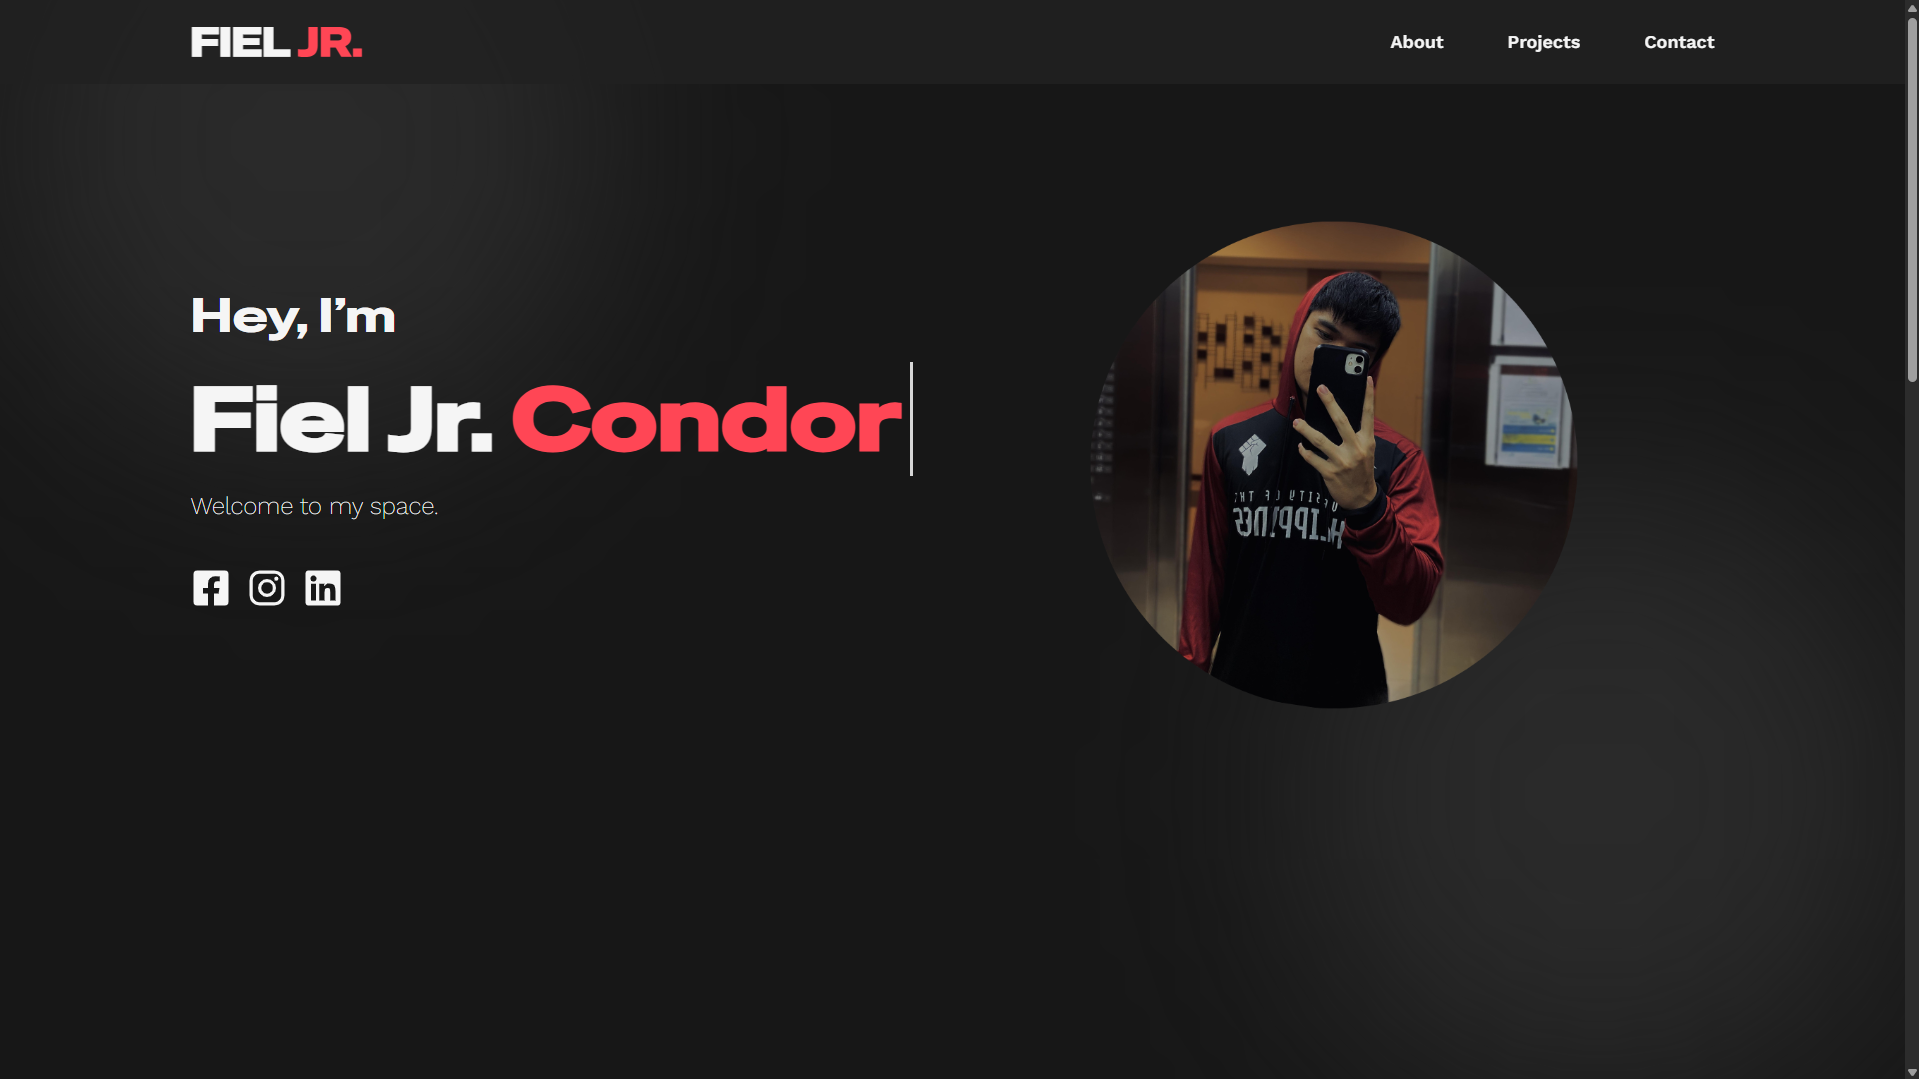
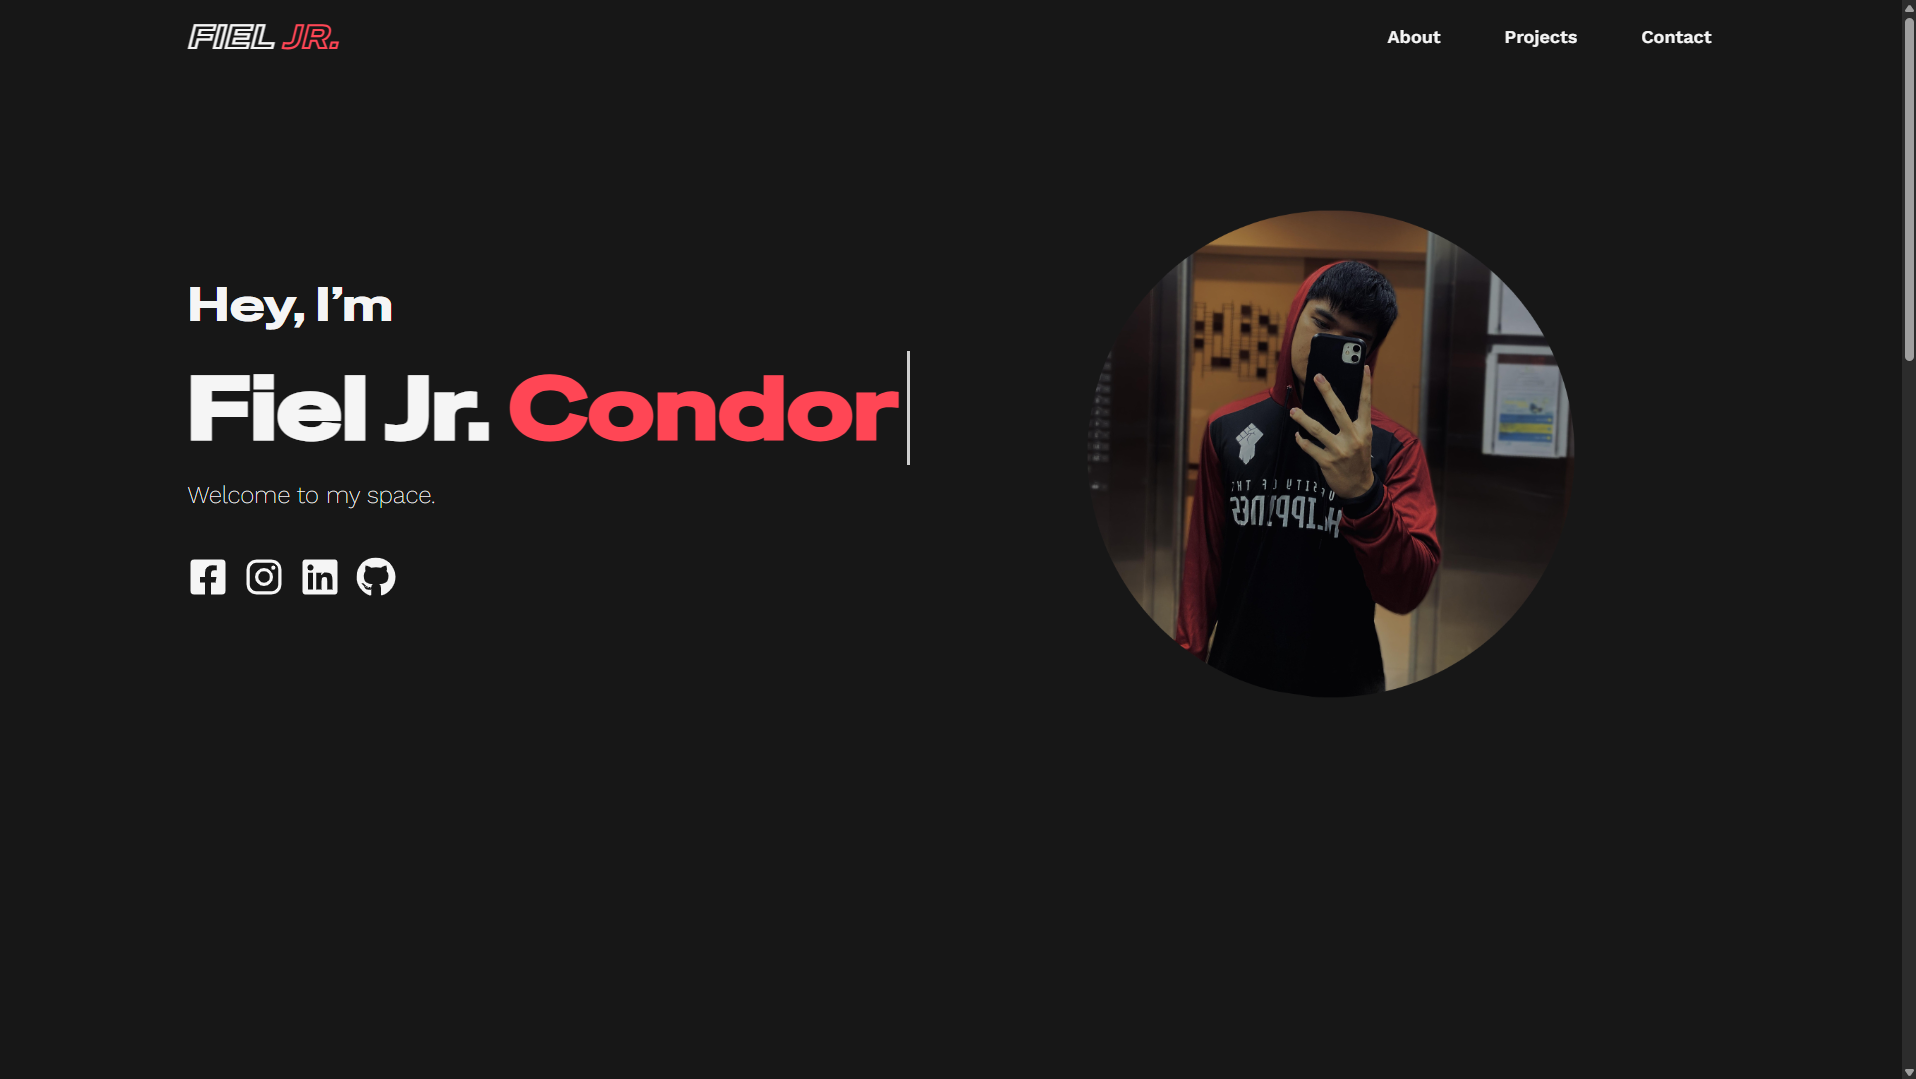
Finishing up

diff --git a/my-portfolio/src/components/Contacts/Contacts.jsx b/my-portfolio/src/components/Contacts/Contacts.jsx
@@ -7,7 +7,7 @@ const Contacts = () => {
     return (
         <section id='contact' className={styles.container}>
             <div className={styles.titleContainer}>
-                <h1>DONG<span className={styles.titleSpan}>KOR</span> PORTFOLIO</h1>
+                <h1>FIEL<span className={styles.titleSpan}> JR.</span> PORTFOLIO</h1>
             </div>
             <div className={styles.socialsContainer}>
                 <ul className={styles.socials}>
@@ -26,7 +26,7 @@ const Contacts = () => {
                 </ul>
             </div>
             <div className={styles.copyrightContainer}>
-                <p>© 2025 Dongkor. All rights reserved.</p>
+                <p>© 2025 Condor. All rights reserved.</p>
             </div>
         </section>
 

diff --git a/my-portfolio/index.html b/my-portfolio/index.html
@@ -3,11 +3,11 @@
 
 <head>
   <meta charset="UTF-8" />
-  <!-- <link rel="icon" type="image/png" href="/favicon.ico" /> -->
+  <link rel="icon" type="image/png" href="/icon.png" />
   <link rel="preconnect" href="https://fonts.googleapis.com">
   <link rel="preconnect" href="https://fonts.gstatic.com" crossorigin>
   <meta name="viewport" content="width=device-width, initial-scale=1.0" />
-  <title>My Portfolio</title>
+  <title>Fiel Portfolio</title>
 </head>
 
 <body>

diff --git a/my-portfolio/src/components/NavBar/NavBar.jsx b/my-portfolio/src/components/NavBar/NavBar.jsx
@@ -38,7 +38,7 @@ const Navbar = () => {
             }}>
             <div className={styles.content}>
                 <a href='/' className={styles.title}>
-                    DONG<span className={styles.titleSpan}>KOR.</span>
+                    FIEL <span className={styles.titleSpan}>JR.</span>
                 </a>
                 <div className={styles.menu}>
                     <IoMenu
